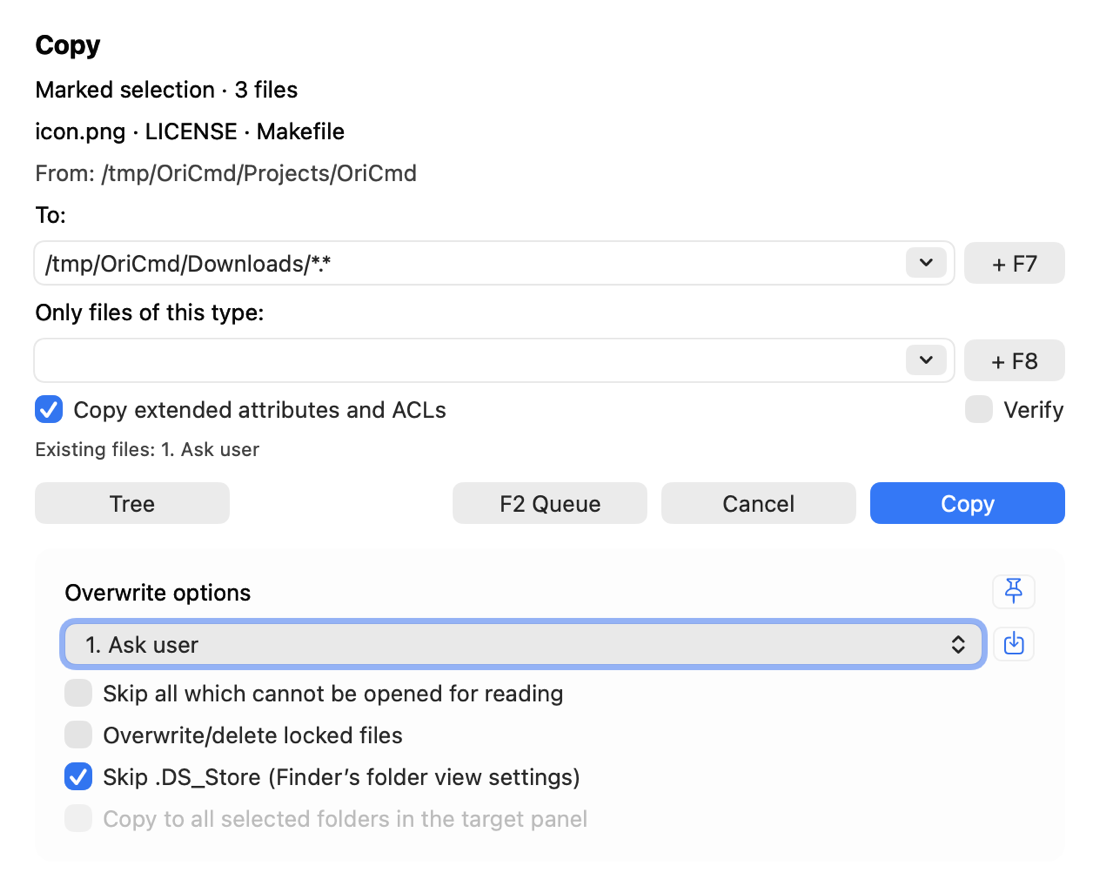
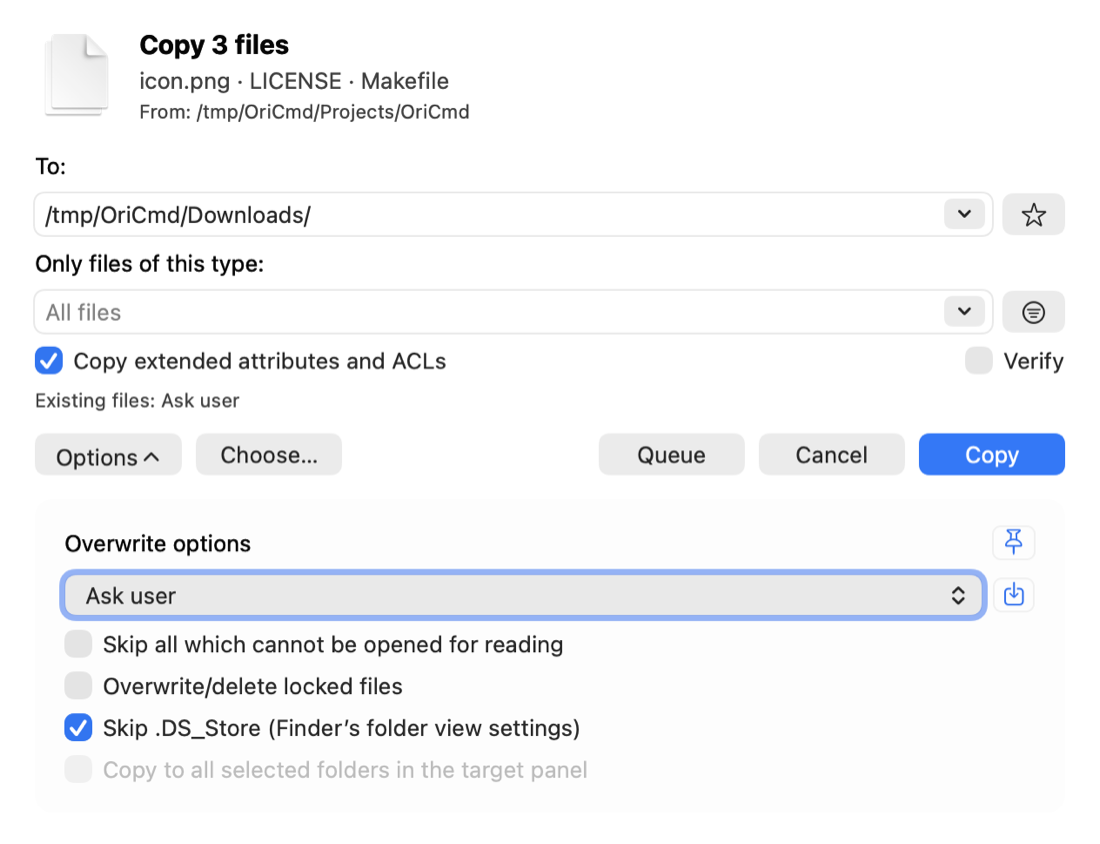
The visual refresh plan records phase 7 (the copy dialog, the questions, Connect to Server, the Lister's table) and the README describes it with screenshots of the current look
Claude-Session: https://claude.ai/code/session_01K9bAq1r3msG744VKfmvqvo

diff --git a/README.md b/README.md
@@ -49,6 +49,14 @@ keep working as always.
   left; the overwrite question compares the two files (size, date, folder) and says
   which is newer. In the Modern look thumbnails are drawn as the Finder draws them,
   documents as pages and pictures with a border.
+- **Dialogs that name what they act on:** in the Modern look the copy and move
+  dialog shows the icon and name of what it copies ("Copy “notes.txt”", "Copy 2
+  folders") and the target folder without the `*.*` mask, with a star for the
+  target list and a filter button. The delete questions ask as the Finder does
+  ("Move 2 items to the Trash?", "Delete “notes.txt” immediately?") with the items'
+  icon and names. Connect to Server keeps its recent servers in a rounded list, the
+  Lister's table columns are as wide as their texts, and the key hints say New Folder
+  and Quit.
 - **Mac-style panels:** compact headers, folder icons and close buttons on tabs,
   key caps on function buttons, Finder-style sizes and status summaries, folder
   colors from Finder tags, and options for folder brackets and file extensions.
@@ -105,7 +113,7 @@ The screenshots show this fork's interface with its default settings.
 
 | | |
 |---|---|
-| ![Copy dialog](docs/screenshots/en/copy-dialog.png)<br>Copy (`F5`): source, destination and scope, file type filter, overwrite modes | ![Settings](docs/screenshots/en/settings.png)<br>Settings with a panel preview |
+| ![Copy dialog](docs/screenshots/en/copy-dialog.png)<br>Copy (`F5`): what is copied and from where, the target, a file type filter, overwrite modes | ![Settings](docs/screenshots/en/settings.png)<br>Settings with a panel preview |
 | ![Compare by content](docs/screenshots/en/compare.png)<br>Compare files by content | ![Multi-Rename Tool](docs/screenshots/en/multi-rename.png)<br>Multi-Rename Tool (`Ctrl+M`) |
 | ![Synchronize directories](docs/screenshots/en/sync.png)<br>Synchronize directories | ![Dark theme](docs/screenshots/en/main-dark.png)<br>Dark theme |
 
@@ -425,23 +433,24 @@ that takes more than 5 seconds is stopped (the text stays plain).
 
 - **Target** with a name mask: `folder/*.*` keeps the names, `folder/*.bak`
   changes the extension, `folder/new_*.*` adds a prefix; without a mask and for a
-  single file it is the new name. The drop-down list holds the target list and
-  recent paths; `F7` (the "+ F7" button) adds the current folder to the target
-  list or removes it, `⌃D` picks a folder from the directory hotlist, "Tree"
-  chooses a folder.
+  single file it is the new name. The Modern look shows the folder alone (the same
+  as `*.*`) and names what is copied at the top, with its icon. The drop-down list
+  holds the target list and recent paths; `F7` (the star, "+ F7" in the Classic
+  look) adds the current folder to the target list or removes it, `⌃D` picks a
+  folder from the directory hotlist, "Choose…" ("Tree") chooses a folder.
 - **Only files of this type:** `*.jpg *.png` copies only such files (in
   subfolders too); exclusions come after `|`: `*.* | *.bak .git/ node_modules/`;
   a name ending in `/` is a folder at any depth (`src/` — only the `src` folders,
   with everything inside). Folders left empty by the filter are not created.
-  `F8` (the "+ F8" button) — saved filters and examples.
+  `F8` (the filter button, "+ F8" in the Classic look) — saved filters and examples.
 - **Copy extended attributes and ACLs** (tags, Finder comments, access
   rights); **Verify** compares every copied file with the original.
-- Buttons, in the order of Mac dialogs: **Options >>** and **Tree** at the left;
-  **F2 Queue** — the operation joins the queue and runs one at a time in its own
+- Buttons, in the order of Mac dialogs: **Options** and **Choose…** at the left;
+  **Queue** (`F2`) — the operation joins the queue and runs one at a time in its own
   progress window — **Cancel** (`Esc`) and **Copy**/**Move** (`Return`) at the
-  right. Right-click Copy or F2 Queue to move instead of copying (and the other
+  right. The Classic look names them **Options >>**, **Tree** and **F2 Queue**. Right-click Copy or F2 Queue to move instead of copying (and the other
   way round).
-- **Options >>**: overwrite mode (ask, overwrite all, skip all, overwrite older,
+- **Options**: overwrite mode (ask, overwrite all, skip all, overwrite older,
   auto-rename the copied or the existing files — `name(2).ext`, copy larger or
   smaller ones), skip unreadable files, overwrite/delete locked files, skip
   `.DS_Store` (on by default: Finder's view settings inside the folders are not

diff --git a/docs/visual-refresh.md b/docs/visual-refresh.md
@@ -6,7 +6,7 @@ deferred; phase 3 on branch `secondary-windows` (2026-10-07); the app icon on br
 `app-icon` (2026-10-07); phase 4, what phases 1 and 2 left over, on branch
 `ops-badge` (2026-10-07); phase 5, the tool windows, on branch `modern-polish`
 (2026-10-07); phase 6, thumbnails and copying, on branch `modern-details`
-(2026-10-08).
+(2026-10-08); phase 7, dialogs, on branch `modern-dialogs` (2026-10-08).
 **Mockup:** [Today and proposed main window, interactive](https://claude.ai/artifact/CBd66sFhHtoyH7Bkzt2BeP)
 (light and dark).
 
@@ -351,6 +351,47 @@ Classic look keeps both as before. Short sizes that read the same for two differ
 files show their bytes in the overwrite question. The speed is measured over the last
 three seconds and left out while the copy is paused or before it has run a second.
 
+### Phase 7: dialogs
+
+A third survey (2026-10-08) pictured the windows and states the first two had not:
+the copy and move dialog, the delete questions, unpacking, the branch view, tabs,
+the simple prompts (select files, new file, hard link, encode), Connect to Server
+and the network browser, Quick View, and the Lister's table and picture views.
+
+- **The copy and move dialog** (`F5`/`F6`), the one opened most, was still Total
+  Commander's: "Copy" over "Item under cursor · 1 file" and the name, the target
+  ending in `*.*`, buttons titled "+ F7" and "+ F8", the overwrite modes numbered
+  ("1. Ask user"), and five buttons of one width.
+- **The delete questions** asked "Do you really want to move the selected 2
+  files/folders to the Trash?", with no names and the app's icon; other questions
+  said "2 files/folders" too.
+- **Connect to Server** kept its recent servers in a sunken striped frame with a
+  square − button, blank when there were none; the network browser put Connect…
+  beside its status.
+- **The Lister's table** stretched its last column over the window, so a number in
+  it sat at the far edge. **The key hints** said "NewFolder" and "Exit".
+
+The simple prompts are standard alerts and stay; Quick View is Quick Look's own.
+
+1. **The copy and move dialog** in the Modern look: the icon of what is copied and
+   "Copy “notes.txt”" or "Copy 2 folders" beside it, the names of several and the
+   source folder under it; the target folder without `*.*` (a mask typed after it
+   still renames); a star for the target list and a filter symbol for `F8`, "All
+   files" in the empty filter; the modes without numbers; Options (showing and
+   hiding the options), Choose… and Queue sized to their titles. Effort M.
+2. **Questions that name their items**: "Move “notes.txt” to the Trash?", "Move 2
+   items to the Trash?", "Delete … immediately?" with the names of several under the
+   title and the items' icon; "2 items" wherever "2 files/folders" was. Effort S.
+3. **Connect to Server** keeps its recent servers in a `ListBox` with − and "No
+   recent servers"; the network browser's Connect… goes to the trailing edge. Effort S.
+4. **The Lister's table** columns keep the width of their texts; **the key hints**
+   say New Folder and Quit in the Modern look. Effort XS.
+
+**As built (phase 7).** As planned. The Classic look keeps Total Commander's dialog
+as it was: its wording, the mask, "+ F7", "+ F8", Options >>, Tree and F2 Queue at one
+width, and the numbered modes. The questions and Connect to Server are the same in
+both looks.
+
 ## The Look setting
 
 The fork already has eight appearance switches: folder brackets, Mac-style tabs,
@@ -365,7 +406,7 @@ switches at once, and the individual switches stay below it. Test runs pin
 The plan is built except the deferred 2.1 and 2.2. New visual work starts from what
 using the Modern look shows, on its own branch from `main`, behind the Look setting
 where it changes how the classic panels look. Phase 6 built what the phase 5
-survey left.
+survey left; phase 7 what a third survey found in the dialogs.
 
 ## Sources
 
